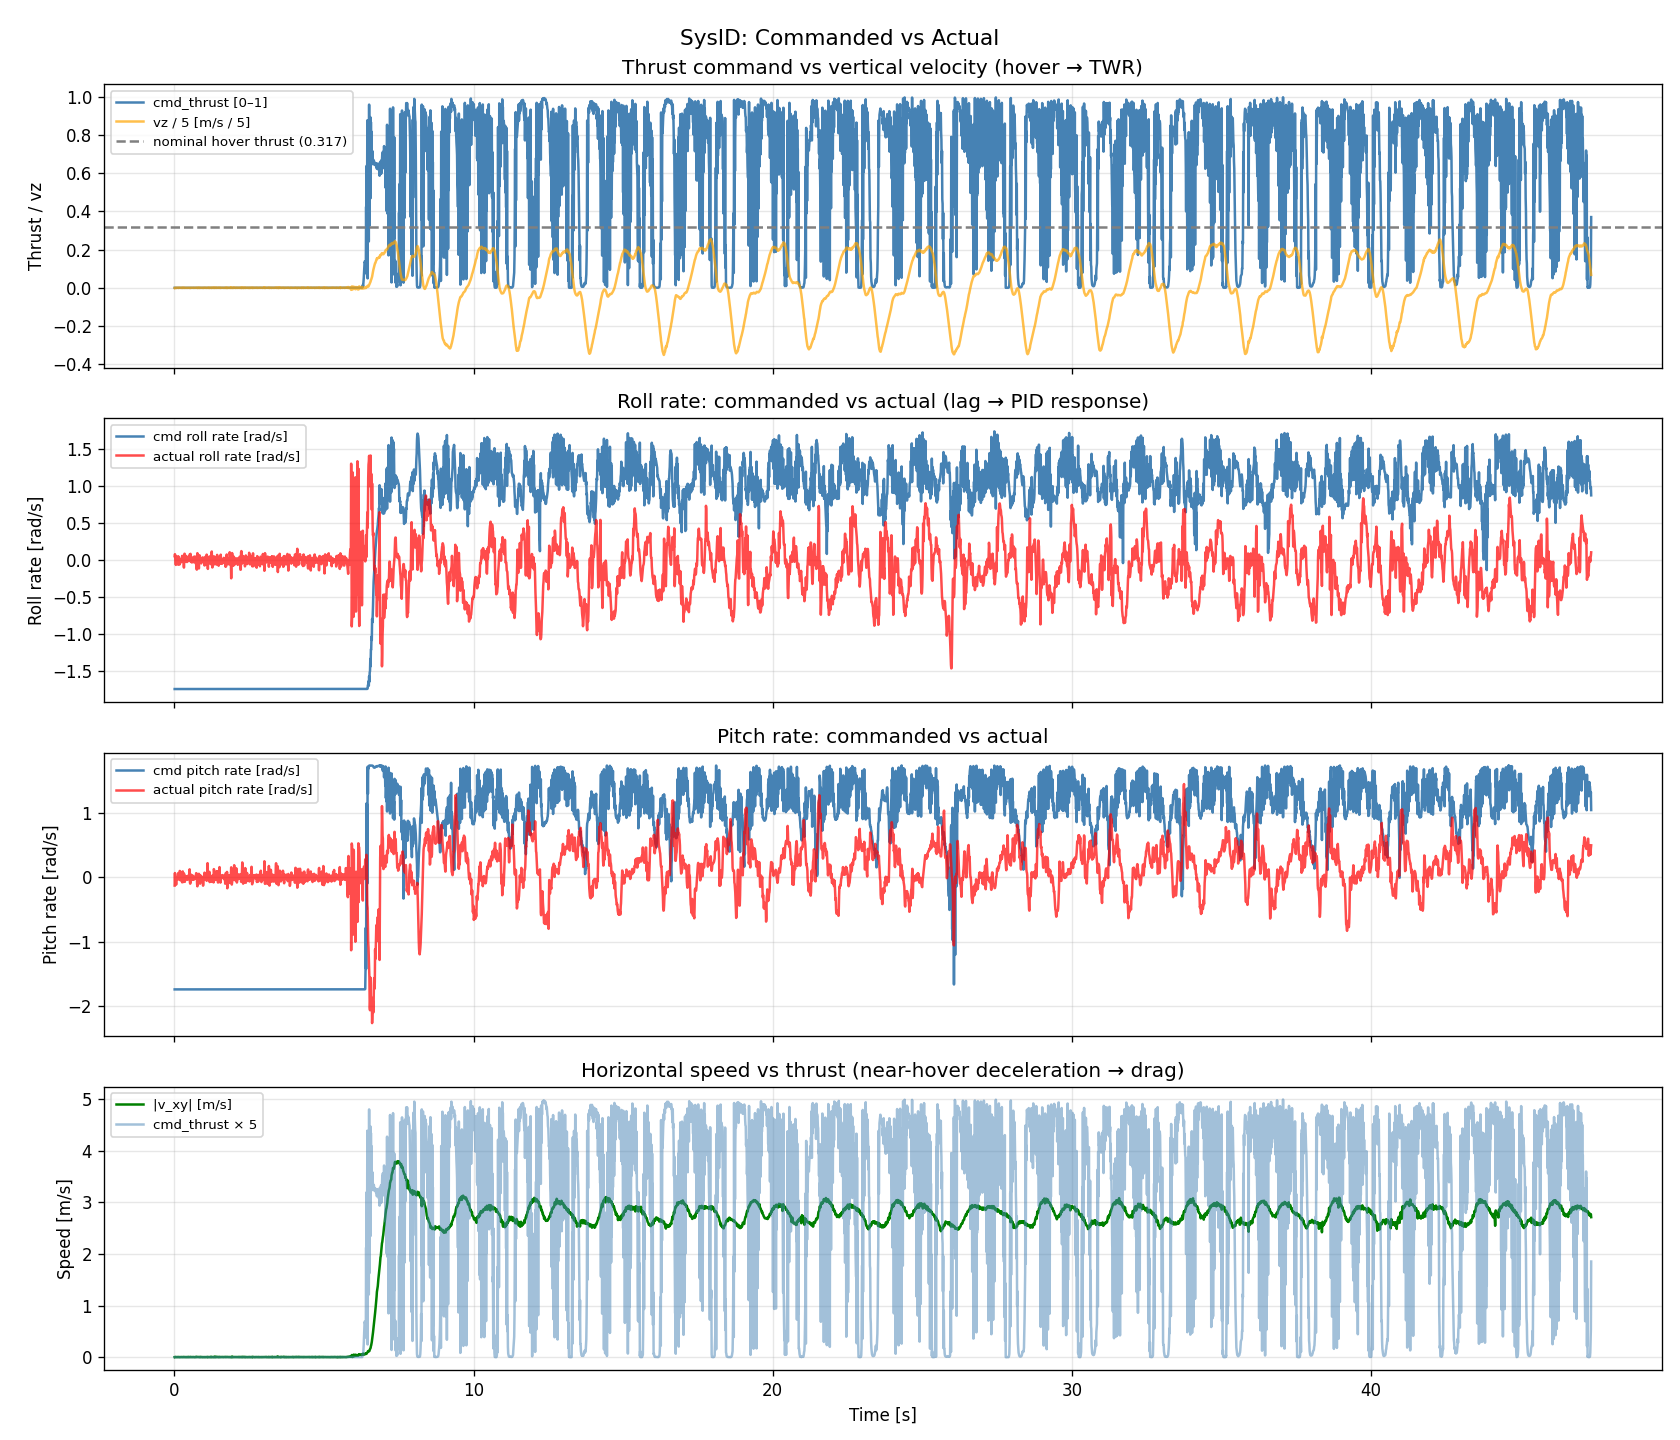
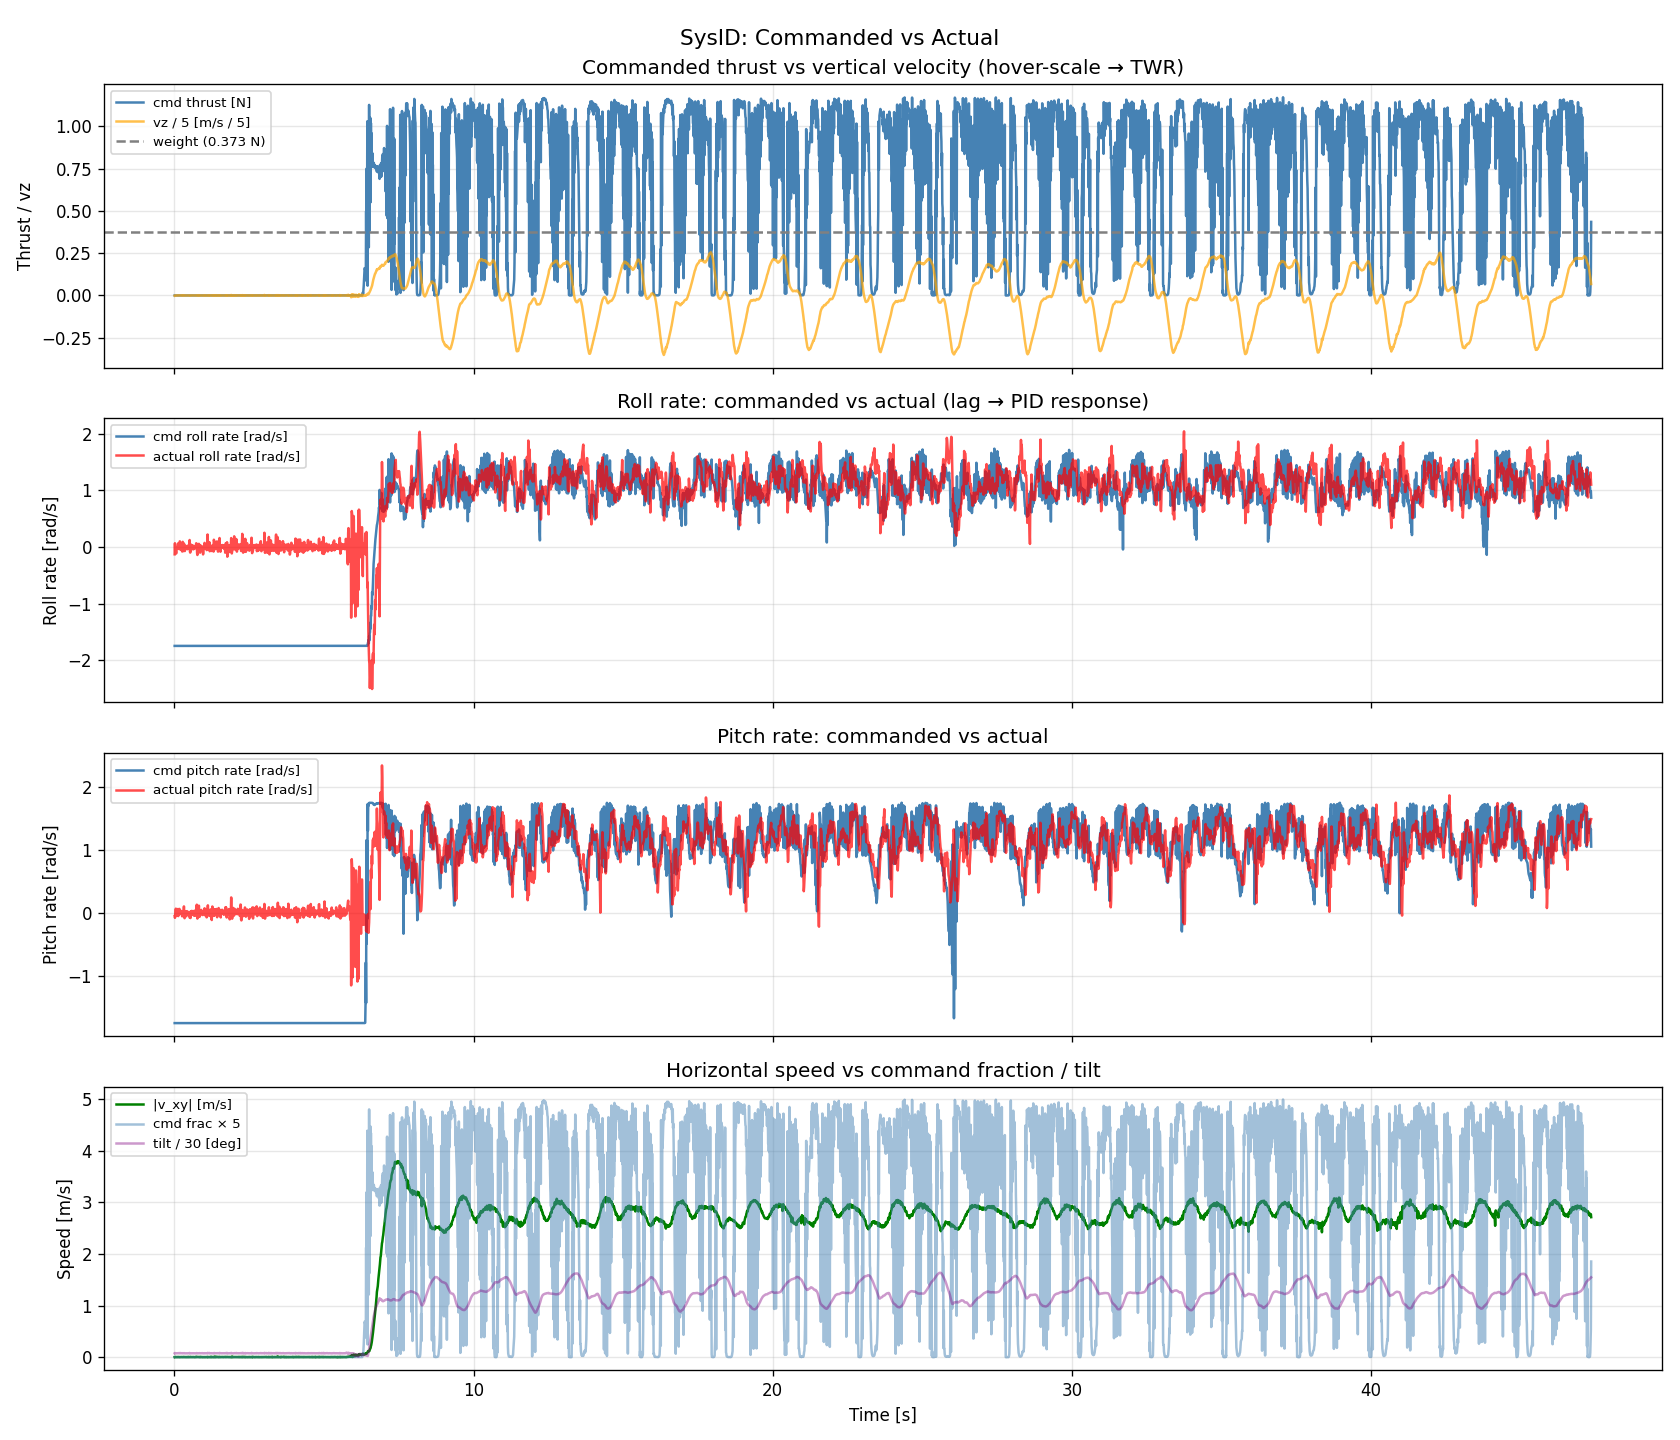
powerloop baseline

diff --git a/src/isaac_quad_sim2real/tasks/race/config/crazyflie/quadcopter_env.py b/src/isaac_quad_sim2real/tasks/race/config/crazyflie/quadcopter_env.py
@@ -129,7 +129,7 @@ class GateModelCfg:
 class QuadcopterEnvCfg(DirectRLEnvCfg):
     use_wall = False
     track_name = 'circle'
-    action_latency_max = 1          # fixed baseline: 1 policy step matches current bag-derived lag
+    action_latency_max = 2          # fixed baseline: 2 policy steps matches current bag-derived lag cluster
     mass_variation = 0.0            # fixed baseline: disable until re-identified on fresh bags
     motor_tau_scale_min = 1.0       # fixed baseline: no extra motor-tau DR
     motor_tau_scale_max = 1.0

diff --git a/scripts/run/sweep.py b/scripts/run/sweep.py
@@ -45,7 +45,7 @@ PPO_DEFAULTS = {
 
 # ---------- Environment config defaults ----------
 ENV_DEFAULTS = {
-    "action_latency_max": 1,               # fixed baseline: conservative 1-step action delay
+    "action_latency_max": 2,               # fixed baseline: 2-step action delay matches current bag-derived cluster
     "mass_variation": 0.0,                 # fixed baseline: disable extra DR until re-identified
     "motor_tau_scale_min": 1.0,            # fixed baseline: no motor-tau DR
     "motor_tau_scale_max": 1.0,

diff --git a/docs/changelog.md b/docs/changelog.md
@@ -29,7 +29,7 @@ This is now the default training baseline in code:
 | `cmd_reg_rp_scale` | **-1.0** |
 | `cmd_reg_yaw_scale` | **-0.5** |
 | `cmd_smoothness_scale` | **-0.1** |
-| `action_latency_max` | **1** |
+| `action_latency_max` | **2** |
 | `obs_latency_prob` | **0.0** |
 | `mass_variation` | **0.0** |
 | `motor_tau_scale_min/max` | **1.0 / 1.0** |
@@ -41,7 +41,7 @@ This is now the default training baseline in code:
 2. Keeps V6's `gate_side=0.7` safety margin.
 3. Keeps V6-Smooth's light `cmd_smoothness=-0.1`, which gave the best real consistency without the V6-Smooth2 slowdown.
 4. Removes spline reset and extra mass/tau DR, which consistently failed to show real-world benefit.
-5. Uses only a conservative 1-step action latency. Observation latency is left off for the baseline because it only became active after the bug fix and needs a clean ablation later.
+5. Uses a conservative 2-step action latency, which better matches the current bag-derived lag cluster. Observation latency is left off for the baseline because it only became active after the bug fix and needs a clean ablation later.
 
 ### Status
 
